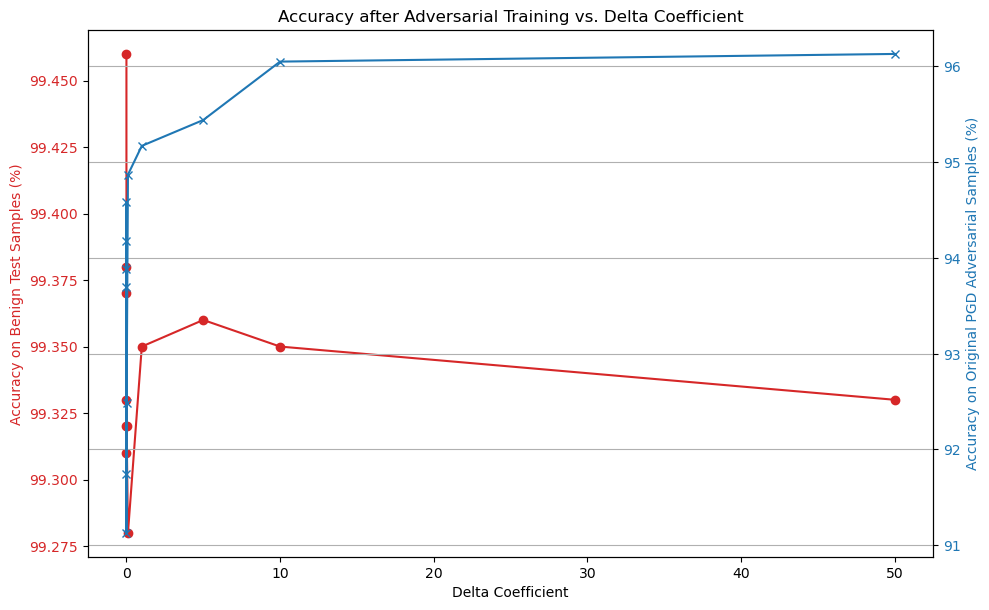
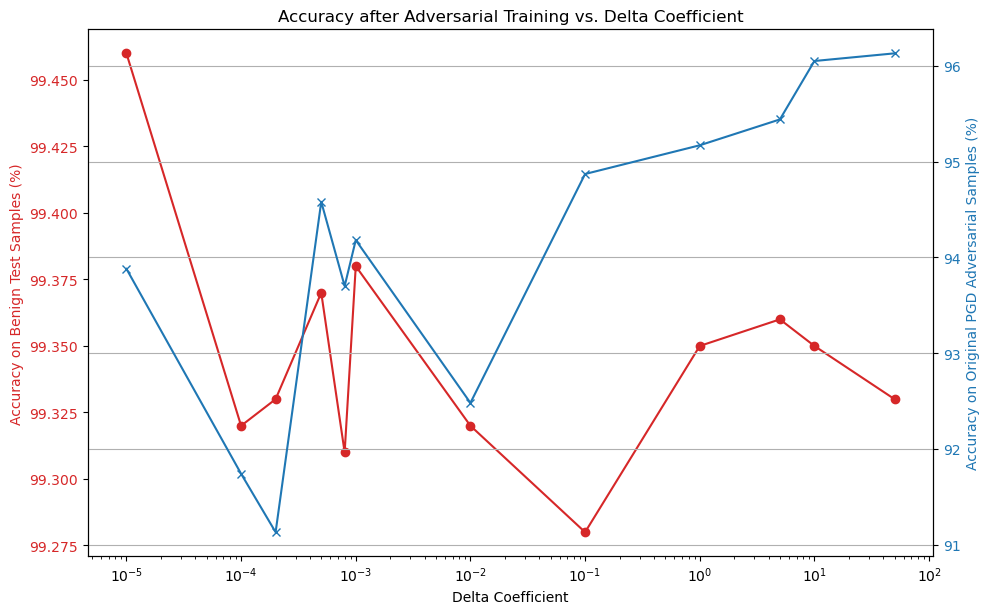
fix ba

diff --git a/examples/adversarial_training_BA_mnist.py b/examples/adversarial_training_BA_mnist.py
@@ -149,6 +149,7 @@ class MNIST_dataset(Dataset):
 if __name__ == "__main__":
     parser = argparse.ArgumentParser()
     parser.add_argument("--delta_coeff", default=1.25, type=float)
+    parser.add_argument("--gamma", default=1.0, type=float)
     parser.add_argument('--output_dir', type=str, default='log/', help='save result logs')
     parser.add_argument("--epochs", default=30, type=int)
     parser.add_argument("--attack_type", default='pgd', type=str)  # ['pgd', 'carlini', 'wasserstein', 'auto_pgd']
@@ -257,7 +258,7 @@ if __name__ == "__main__":
     # Step 4: Create the trainer object - AdversarialTrainerFBFPyTorch
     # if you have apex installed, change use_amp to True
     epsilon = 0.2
-    trainer = AdversarialTrainerBAPyTorch(classifier, args.delta_coeff, eps=epsilon, use_amp=False)
+    trainer = AdversarialTrainerBAPyTorch(classifier, args.delta_coeff, gamma=args.gamma, eps=epsilon, use_amp=False)
 
     # Build a Keras image augmentation object and wrap it in ART
     art_datagen = PyTorchDataGenerator(iterator=dataloader, size=x_train.shape[0], batch_size=128)
@@ -267,7 +268,7 @@ if __name__ == "__main__":
 
     # save trained model
     os.makedirs(args.output_dir, exist_ok=True)
-    file_name = f"ba_mnist_delta-coeff={args.delta_coeff}"
+    file_name = f"ba_mnist_delta-coeff={args.delta_coeff}_gamma={args.gamma}"
     classifier.save(filename=file_name, path=args.output_dir)
     print(f"Save model to {args.output_dir}/{file_name}")
 
@@ -286,7 +287,7 @@ if __name__ == "__main__":
     log_entry += '\n' + prt2
     
     # log result
-    log_file_path = os.path.join(args.output_dir, f'delta_coeff={args.delta_coeff}.log')
+    log_file_path = os.path.join(args.output_dir, f'delta_coeff={args.delta_coeff}_gamma={args.gamma}.log')
 
     # Append the log entry to the file
     with open(log_file_path, "a") as log_file:

diff --git a/art/defences/trainer/adversarial_trainer_ba_pytorch.py b/art/defences/trainer/adversarial_trainer_ba_pytorch.py
@@ -52,7 +52,7 @@ class AdversarialTrainerBAPyTorch(AdversarialTrainerFBF):
         time making this one of the fastest adversarial training protocol.
     """
 
-    def __init__(self, classifier: "PyTorchClassifier", delta_coeff, eps: Union[int, float] = 8, use_amp: bool = False):
+    def __init__(self, classifier: "PyTorchClassifier", delta_coeff, gamma=1, eps: Union[int, float] = 8, use_amp: bool = False):
         """
         Create an :class:`.AdversarialTrainerBAPyTorch` instance.
 
@@ -64,6 +64,7 @@ class AdversarialTrainerBAPyTorch(AdversarialTrainerFBF):
         self._classifier: "PyTorchClassifier"
         self._use_amp = use_amp
         self.delta_coeff = delta_coeff
+        self.gamma = gamma
 
     def fit(
         self,
@@ -231,7 +232,7 @@ class AdversarialTrainerBAPyTorch(AdversarialTrainerFBF):
             # m = np.prod(x_batch.shape[1:]).item()
             # noise = random_sphere(n, m, self._eps, np.inf).reshape(x_batch.shape).astype(ART_NUMPY_DTYPE)
 
-            self.delta = np.clip(self.delta + h_delta * delta_grad + np.sqrt(h_delta) * noise, -self._eps, +self._eps).astype(np.float32)
+            self.delta = np.clip(self.delta + h_delta * delta_grad + np.sqrt(2*h_delta) * noise, -self._eps, +self._eps).astype(np.float32)
             
         # theta update
         if self._classifier.clip_values is not None:

diff --git a/examples/plot_log.py b/examples/plot_log.py
@@ -3,7 +3,7 @@ import re
 import matplotlib.pyplot as plt
 
 # Step 1: List all the log files
-log_directory = 'log30_iter_delta_eps0.6'
+log_directory = 'log30_iter_delta_eps0.2'
 log_files = [f for f in os.listdir(log_directory) if re.match(r'delta_coeff=.*\.log', f)]
 
 # Dictionaries to hold the extracted data
@@ -18,7 +18,8 @@ for log_file in log_files:
         content = file.read()
         benign_accuracy_match = re.search(r'Accuracy on benign test samples after adversarial training:\s+([\d.]+)', content)
         adversarial_accuracy_match = re.search(r'Accuracy on original PGD adversarial samples after adversarial training:\s+([\d.]+)', content)
-        
+        # adversarial_accuracy_match = re.search(r'Accuracy on pgd adversarial samples after adversarial training:\s+([\d.]+)', content)
+
         if benign_accuracy_match:
             benign_accuracies[delta_coeff] = float(benign_accuracy_match.group(1))
         if adversarial_accuracy_match:
@@ -47,7 +48,7 @@ ax2.tick_params(axis='y', labelcolor=color)
 
 fig.tight_layout()  # otherwise the right y-label is slightly clipped
 plt.title('Accuracy after Adversarial Training vs. Delta Coefficient')
-# plt.xscale('log')
+plt.xscale('log')
 plt.grid()
 plt.savefig(f'{log_directory}/diff_delta.png', bbox_inches='tight')
 plt.show()

diff --git a/art/attacks/evasion/bayesian_adversary/bayesian_adversary_pytorch.py b/art/attacks/evasion/bayesian_adversary/bayesian_adversary_pytorch.py
@@ -386,7 +386,7 @@ class BayesianAdversaryPyTorch(ProjectedGradientDescentCommon):
         perturbation_step[torch.isnan(perturbation_step)] = 0
         
         # Add noise, only for Bayesian attack
-        noise = torch.sqrt(torch.tensor(eps_step).to(self.estimator.device)) * torch.randn_like(perturbation_step, dtype=torch.float) 
+        noise = torch.sqrt(torch.tensor(2*eps_step).to(self.estimator.device)) * torch.randn_like(perturbation_step, dtype=torch.float) 
 
         x = x + perturbation_step + noise
         if self.estimator.clip_values is not None:
